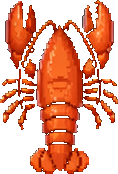
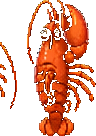
fix(sprite): re-slice lobster from higher-fidelity v2 sheet
User flagged the previous frames as poorly cropped — cutoff legs and
bleed from neighboring poses. The v1 sheet was 1315×1196 with no
panel borders, so my blind horizontal division across the whole
width was swallowing the edge of the next frame.

V2 sheet (1536×1024, supplied by user) has each animation group in
a bordered panel with clear gutters between them. Re-sliced using
measured panel geometry:

- IDLE panel: x=5..747, y=50..240 (skip label text). 7 frames of
  ~106px each.
- WALK panel: x=780..1524, y=50..240. 8 frames of ~93px each.
- Black background keyed to alpha via ImageMagick `-fuzz 15%`;
  each frame trimmed to its bounding box so the sprite sits
  snugly on the canvas without extra padding.

Sprite count per animation bumped to full 7 idle + 8 walk for a
longer, less repetitive cycle. `draw_lobster` now takes a `&[Handle]`
slice (was a fixed-size array) so future animation sets with a
different count don't need signature churn.

Frame rates nudged: WALK 4→6 Hz (more visible leg motion), IDLE
2→3 Hz (more tail wag).

Old sheet at `assets/lobster-sheet.png` replaced with v2.

diff --git a/src/scene/sprite.rs b/src/scene/sprite.rs
@@ -157,7 +157,7 @@ pub const MICROPHONE: Sprite = Sprite {
 // char-grid renderer; lobsters use image.
 // =====================================================================
 
-static LOBSTER_IDLE: LazyLock<[iced_image::Handle; 4]> = LazyLock::new(|| {
+static LOBSTER_IDLE: LazyLock<[iced_image::Handle; 7]> = LazyLock::new(|| {
     [
         iced_image::Handle::from_bytes(
             include_bytes!("../../assets/lobster/idle-0.png").as_slice(),
@@ -171,10 +171,19 @@ static LOBSTER_IDLE: LazyLock<[iced_image::Handle; 4]> = LazyLock::new(|| {
         iced_image::Handle::from_bytes(
             include_bytes!("../../assets/lobster/idle-3.png").as_slice(),
         ),
+        iced_image::Handle::from_bytes(
+            include_bytes!("../../assets/lobster/idle-4.png").as_slice(),
+        ),
+        iced_image::Handle::from_bytes(
+            include_bytes!("../../assets/lobster/idle-5.png").as_slice(),
+        ),
+        iced_image::Handle::from_bytes(
+            include_bytes!("../../assets/lobster/idle-6.png").as_slice(),
+        ),
     ]
 });
 
-static LOBSTER_WALK: LazyLock<[iced_image::Handle; 4]> = LazyLock::new(|| {
+static LOBSTER_WALK: LazyLock<[iced_image::Handle; 8]> = LazyLock::new(|| {
     [
         iced_image::Handle::from_bytes(
             include_bytes!("../../assets/lobster/walk-0.png").as_slice(),
@@ -187,6 +196,18 @@ static LOBSTER_WALK: LazyLock<[iced_image::Handle; 4]> = LazyLock::new(|| {
         ),
         iced_image::Handle::from_bytes(
             include_bytes!("../../assets/lobster/walk-3.png").as_slice(),
+        ),
+        iced_image::Handle::from_bytes(
+            include_bytes!("../../assets/lobster/walk-4.png").as_slice(),
+        ),
+        iced_image::Handle::from_bytes(
+            include_bytes!("../../assets/lobster/walk-5.png").as_slice(),
+        ),
+        iced_image::Handle::from_bytes(
+            include_bytes!("../../assets/lobster/walk-6.png").as_slice(),
+        ),
+        iced_image::Handle::from_bytes(
+            include_bytes!("../../assets/lobster/walk-7.png").as_slice(),
         ),
     ]
 });
@@ -214,12 +235,14 @@ pub fn draw_lobster(
     seconds: f32,
     flip_h: bool,
 ) {
-    let (frames, hz): (&[iced_image::Handle; 4], f32) = match status {
-        AgentStatus::Running | AgentStatus::Unknown => (&LOBSTER_WALK, 4.0),
-        AgentStatus::Ok => (&LOBSTER_IDLE, 2.0),
-        AgentStatus::Error | AgentStatus::Disabled => (&LOBSTER_IDLE, 0.0),
+    // Slice refs so we can pick the idle vs walk array without
+    // caring about the fixed-size difference between them.
+    let (frames, hz): (&[iced_image::Handle], f32) = match status {
+        AgentStatus::Running | AgentStatus::Unknown => (LOBSTER_WALK.as_slice(), 6.0),
+        AgentStatus::Ok => (LOBSTER_IDLE.as_slice(), 3.0),
+        AgentStatus::Error | AgentStatus::Disabled => (LOBSTER_IDLE.as_slice(), 0.0),
     };
-    let idx = if hz <= 0.0 {
+    let idx = if hz <= 0.0 || frames.is_empty() {
         0
     } else {
         let phase = (seconds * hz).rem_euclid(frames.len() as f32) as usize;
